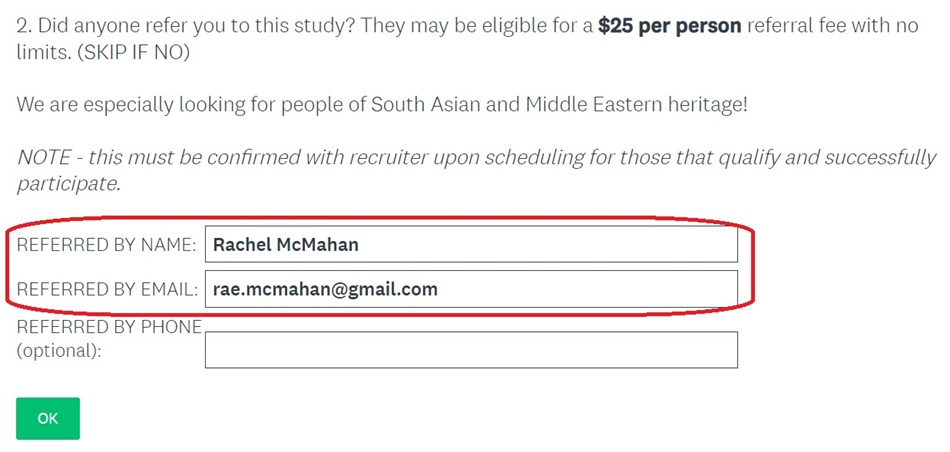
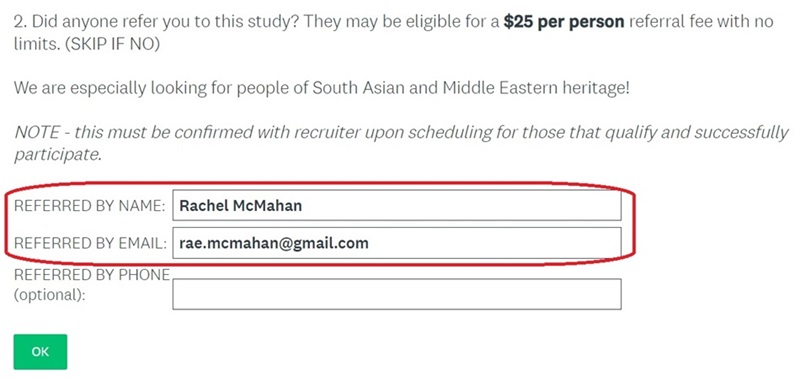
Make it so images on LA Tech Study page are responsive for mobile viewing.

diff --git a/src/pages/techstudy.js b/src/pages/techstudy.js
@@ -6,9 +6,9 @@ import "./techstudy.css";
 
 export default function TechStudy() {
   return (
-    <div style={{ maxWidth: "90%", marginLeft: "auto", marginRight: "auto", marginTop: "3em", marginBottom: "3em" }}>
+    <div style={{ maxWidth: "95%", marginLeft: "auto", marginRight: "auto", marginTop: "3em", marginBottom: "3em" }}>
       <h1>$225 LA Technology Study</h1>
-      <img src={vrHeadset} alt="VR headset" style={{ maxWidth: "600px" }}></img>
+      <img src={vrHeadset} alt="VR headset" style={{ maxWidth: "100%" }}></img>
       <p>
         This 2.5 hour tech study is a fun, easy way to earn $225 in your free time. You will test a VR (virtual reality)
         headset by making different facial expressions and saying phrases. The location is near Glendale.
@@ -60,7 +60,7 @@ export default function TechStudy() {
       <img
         src={techSurveyReferrerExample}
         alt="Tech study referrer"
-        style={{ border: "1px solid black", borderRadius: 15, margin: "10px 0px" }}
+        style={{ border: "1px solid black", borderRadius: 15, margin: "10px 0px", maxWidth: "100%" }}
       ></img>
       <div style={{ marginBottom: 20 }}>
         Referred by name: <b>Rachel McMahan</b>
